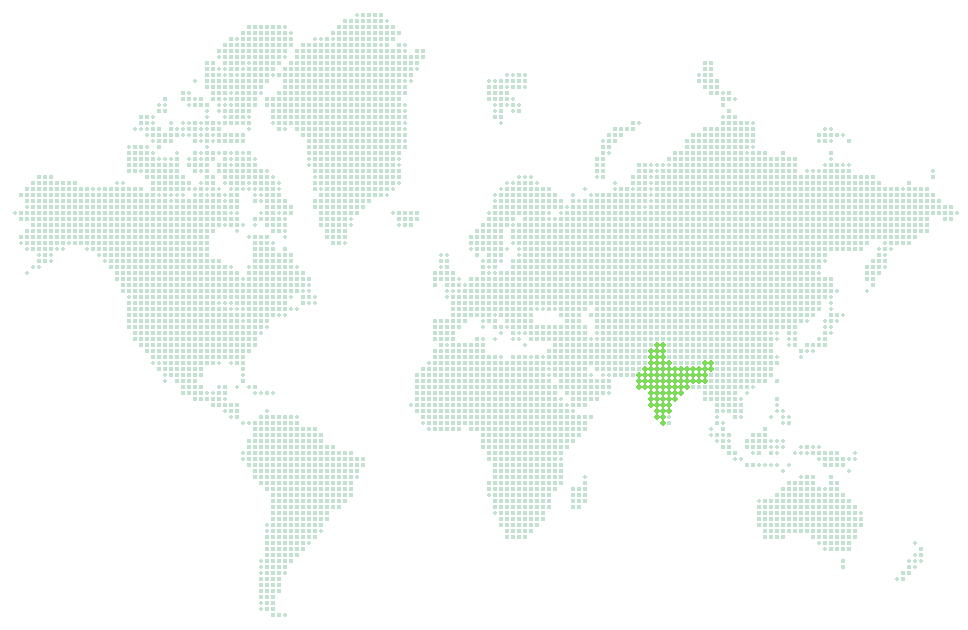
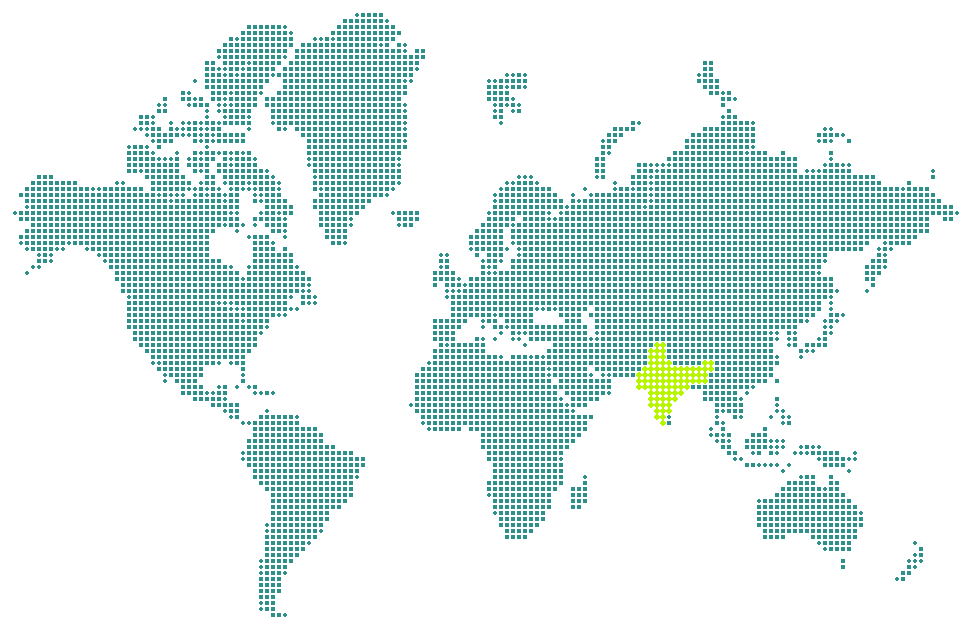
added colour palate to wrold map

diff --git a/index.html b/index.html
@@ -1132,9 +1132,9 @@
     .markets {
       position: relative;
       overflow: hidden;
-      background: radial-gradient(circle at 66% 42%, #123a20 0%, #081c10 55%, #030d07 100%);
-      border-top: 1px solid var(--line);
-      border-bottom: 1px solid var(--line)
+      background: radial-gradient(circle at 66% 42%, #003B32 0%, #00211B 55%, #00211B 100%);
+      border-top: 1px solid #3A7168;
+      border-bottom: 1px solid #3A7168
     }
 
     .markets .wrap {
@@ -1149,18 +1149,18 @@
     }
 
     .markets-intro .eyebrow {
-      color: #BFE6C6;
+      color: #C8D3CE;
       letter-spacing: .22em
     }
 
     .markets-intro h2 {
-      color: #fff;
+      color: #F3F6F2;
       font-size: clamp(22px, 2.4vw, 30px);
       margin-top: 12px
     }
 
     .markets-intro p {
-      color: #CBE0D0;
+      color: #C8D3CE;
       font-size: 14px;
       margin-top: 14px;
       max-width: 34ch
@@ -1172,12 +1172,13 @@
 
     .markets-intro .btn-outline {
       background: transparent;
-      color: #fff;
-      border-color: var(--amber)
+      color: #F3F6F2;
+      border-color: #D6A62C
     }
 
     .markets-intro .btn-outline:hover {
-      background: rgba(245, 166, 35, .14)
+      background: rgba(229, 196, 90, .14);
+      border-color: #E5C45A
     }
 
     .markets-map {
@@ -1203,17 +1204,17 @@
       width: 14px;
       height: 14px;
       transform: translate(-50%, -50%);
-      background: var(--lime);
+      background: #B8F500;
       border-radius: 50%;
-      box-shadow: 0 0 0 6px rgba(124, 179, 66, .25), 0 0 26px 10px rgba(124, 179, 66, .5)
+      box-shadow: 0 0 0 6px rgba(184, 245, 0, .25), 0 0 26px 10px rgba(184, 245, 0, .5)
     }
 
     .markets-pin {
       position: absolute;
       transform: translate(-50%, -50%);
-      background: rgba(6, 20, 12, .85);
-      border: 1px solid rgba(255, 255, 255, .16);
-      color: #fff;
+      background: rgba(22, 75, 67, .9);
+      border: 1px solid #3A7168;
+      color: #F3F6F2;
       font-size: 11.5px;
       font-weight: 700;
       padding: 5px 12px;
@@ -1228,10 +1229,11 @@
     }
 
     .markets-stat {
-      border: 1px solid rgba(255, 255, 255, .18);
+      border: 1px solid #3A7168;
+      background: rgba(22, 75, 67, .35);
       border-radius: 12px;
       padding: 12px 16px;
-      color: #fff
+      color: #F3F6F2
     }
 
     .markets-stat b {
@@ -1243,7 +1245,7 @@
     .markets-stat span {
       display: block;
       font-size: 11.5px;
-      color: #BFD6C6;
+      color: #C8D3CE;
       margin-top: 2px
     }
 
@@ -2017,13 +2019,13 @@
       </div>
       <div class="markets-map">
         <svg viewBox="0 0 100 100" preserveAspectRatio="none">
-          <path d="M68,59 Q40,26 17,32" fill="none" stroke="var(--lime)" stroke-width=".6" stroke-linecap="round"
+          <path d="M68,59 Q40,26 17,32" fill="none" stroke="#B8F500" stroke-width=".6" stroke-linecap="round"
             opacity=".7" />
-          <path d="M68,59 Q58,18 52,17" fill="none" stroke="var(--lime)" stroke-width=".6" stroke-linecap="round"
+          <path d="M68,59 Q58,18 52,17" fill="none" stroke="#B8F500" stroke-width=".6" stroke-linecap="round"
             opacity=".7" />
-          <path d="M68,59 Q64,56 62,55" fill="none" stroke="var(--lime)" stroke-width=".6" stroke-linecap="round"
+          <path d="M68,59 Q64,56 62,55" fill="none" stroke="#B8F500" stroke-width=".6" stroke-linecap="round"
             opacity=".7" />
-          <path d="M68,59 Q76,66 78,71" fill="none" stroke="var(--lime)" stroke-width=".6" stroke-linecap="round"
+          <path d="M68,59 Q76,66 78,71" fill="none" stroke="#B8F500" stroke-width=".6" stroke-linecap="round"
             opacity=".7" />
         </svg>
         <span class="india" style="left:68%;top:59%"></span>
